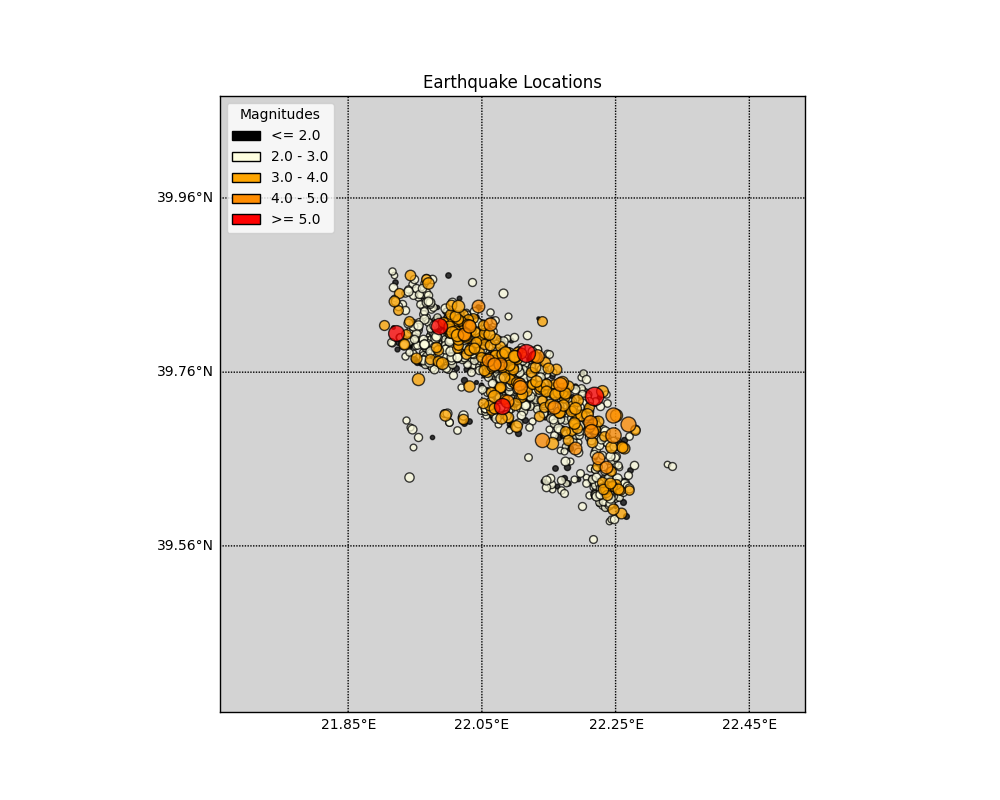
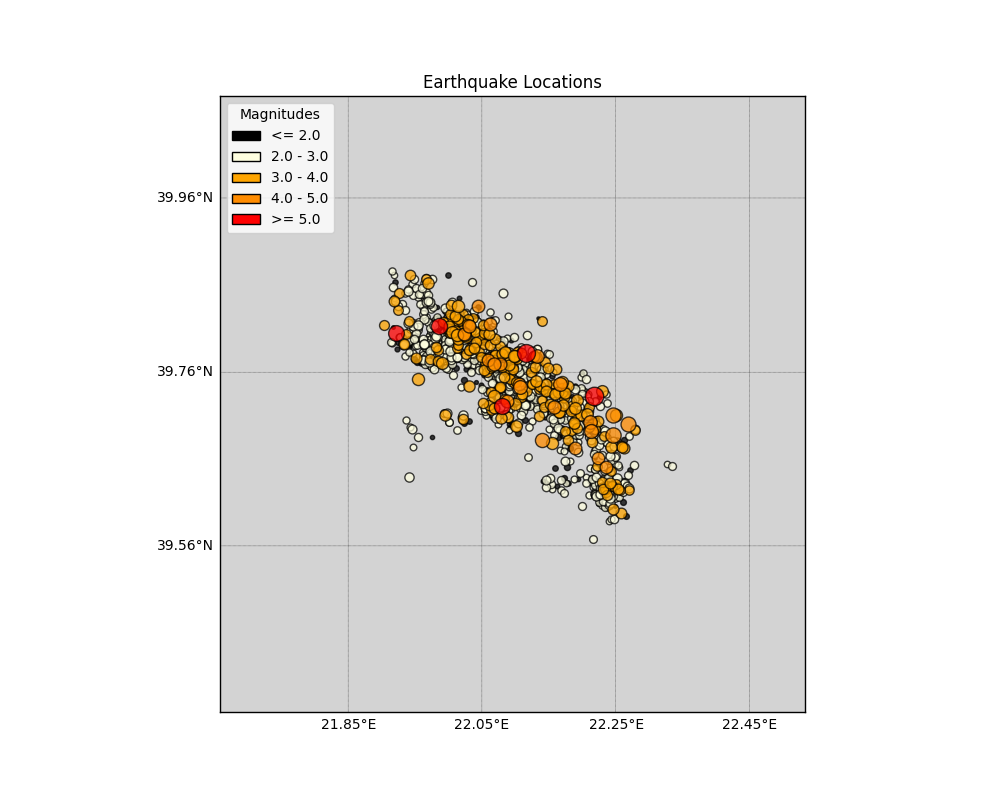
Line width changed for maps

Changed region(s): [[0.744, 0.4375, 0.775, 0.4688], [0.589, 0.4375, 0.62, 0.4688], [0.465, 0.6562, 0.496, 0.6875]]

diff --git a/authcat/map.py b/authcat/map.py
@@ -65,8 +65,8 @@ def plot_earthquakes_final_rounded_ticks(latitudes, longitudes, magnitudes, outp
     meridian_interval = 0.2
     parallel_interval = 0.2
 
-    meridians = earth_map.drawmeridians(np.arange(lon_start, lon_end + meridian_interval, meridian_interval), labels=[True, False, False, True])
-    parallels = earth_map.drawparallels(np.arange(lat_start, lat_end + parallel_interval, parallel_interval), labels=[True, False, False, True])
+    meridians = earth_map.drawmeridians(np.arange(lon_start, lon_end + meridian_interval, meridian_interval), labels=[True, False, False, True], linewidth=0.3)
+    parallels = earth_map.drawparallels(np.arange(lat_start, lat_end + parallel_interval, parallel_interval), labels=[True, False, False, True], linewidth=0.3)
     
     plt.legend(handles=legend_patches, loc='upper left', title='Magnitudes')
     plt.title('Earthquake Locations')
